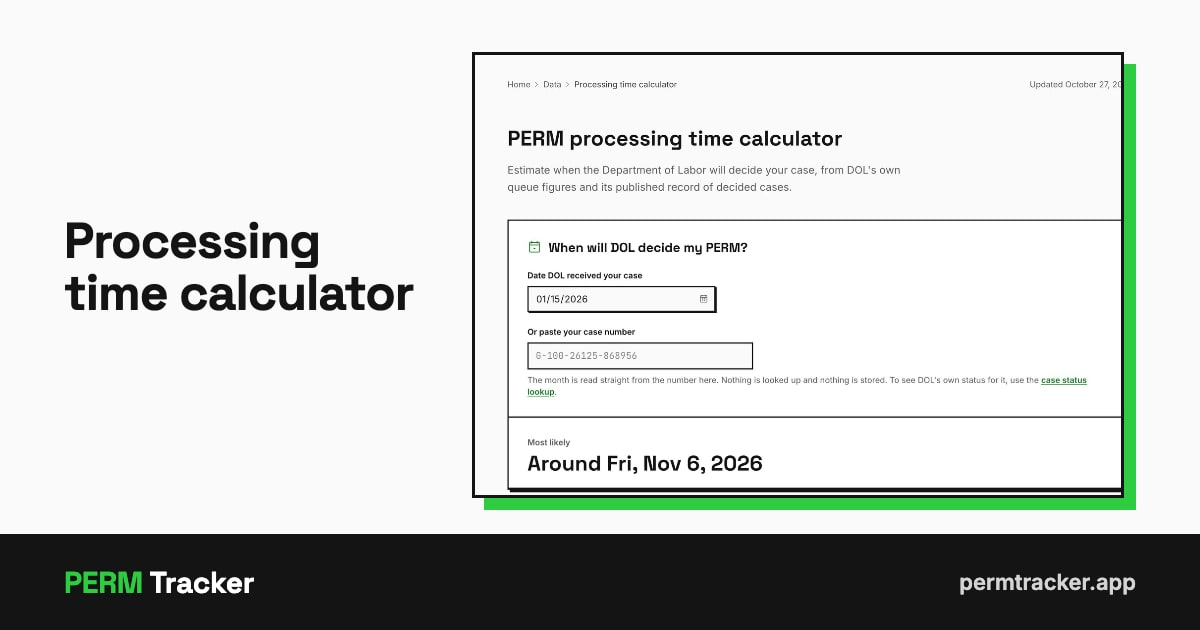
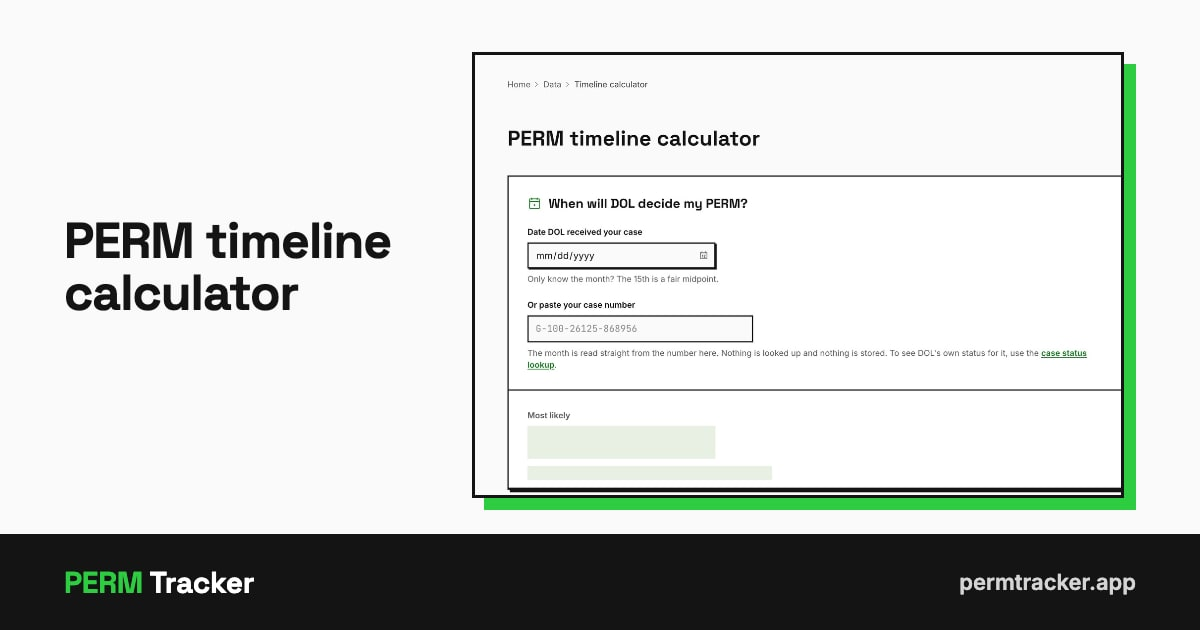
feat(seo): the timeline calculator is called the timeline calculator
Claude-Session: https://claude.ai/code/session_01XYgdcpR3a27fwYMdTXZtsH

diff --git a/v2/src/app/(site)/(public)/calculators/page.tsx b/v2/src/app/(site)/(public)/calculators/page.tsx
@@ -147,7 +147,7 @@ export default function CalculatorsPage() {
                 { s: "Wage request filed, no number for it", q: "What is the case number?", href: "/pwd-cases", tool: "Wage request search" },
                 { s: "Wage request filed, nothing since", q: "How many are ahead of mine?", href: "/tools/pwd-calculator", tool: "Prevailing wage queue" },
                 { s: "Determination in hand, planning recruitment", q: "By when must we file?", href: "/tools/perm-deadline-calculator", tool: "Deadline calculator" },
-                { s: "ETA-9089 filed, waiting", q: "When will DOL decide?", href: "/tools/perm-timeline-calculator", tool: "Decision estimator" },
+                { s: "ETA-9089 filed, waiting", q: "When will DOL decide?", href: "/tools/perm-timeline-calculator", tool: "PERM timeline calculator" },
                 { s: "PERM certified, I-140 next or pending", q: "How deep is USCIS's queue?", href: "/tools/i140-calculator", tool: "I-140 queue" },
                 { s: "I-140 approved, waiting to adjust status", q: "How deep is the green card queue at my priority date?", href: "/tools/i485-queue-position", tool: "I-485 queue position" },
                 { s: "I-140 approved, watching the bulletin", q: "Is my date current, and which way is it moving?", href: "/tools/priority-date-calculator", tool: "Priority dates" },

diff --git a/v2/src/lib/pageCards.ts b/v2/src/lib/pageCards.ts
@@ -49,7 +49,7 @@ export const PAGE_CARD_ALT = {
   "perm-deadline-calculator": "PERM deadline calculator. Every recruitment and filing deadline for a PERM, computed from the dates on your case under 20 CFR 656.",
   "perm-employers-browse": "Every PERM sponsor, A to Z. Browse the employers in DOL's disclosure files by name.",
   "perm-employers-under-review": "Employers with PERM cases on hold, at RFI or under appeal, counted and dated from DOL's live record.",
-  "perm-timeline-calculator": "PERM processing time calculator. Where a filing month stands against DOL's queue, with a decision estimate that keeps its own score.",
+  "perm-timeline-calculator": "PERM timeline calculator. The day DOL will likely decide a case, from its filing date and the cases still ahead of it.",
   "perm-wages-browse": "Every PERM occupation, A to Z. Browse the occupations in DOL's disclosure files by title.",
   "priority-date-calculator": "Visa bulletin priority date calculator. Whether your priority date is current, and how the cutoff has moved, from every bulletin held.",
   "priority-date-retention": "Priority date retention and I-485 portability. Which dates survive a new employer or a new petition, under USCIS's own rules.",

diff --git a/v2/src/components/tools/calculatorShots.ts b/v2/src/components/tools/calculatorShots.ts
@@ -31,7 +31,7 @@ export const CALCULATOR_SHOTS: Record<CalculatorShot, { shots: WindowShots; alt:
       light: { src: "/images/calculators/decision-light.webp", width: 1800, height: 1725 },
       dark: { src: "/images/calculators/decision-dark.webp", width: 1800, height: 1725 },
     },
-    alt: "The PERM processing time calculator for a case DOL received on January 15, 2026: most likely decided around Monday, November 2, 2026, in a window from October 29 to November 11, with DOL deciding 644 cases a working day and its queue at January 2026.",
+    alt: "The PERM timeline calculator for a case DOL received on January 15, 2026: most likely decided around Monday, November 2, 2026, in a window from October 29 to November 11, with DOL deciding 644 cases a working day and its queue at January 2026.",
     captured: "2026-10-28",
   },
   "i140": {

diff --git a/v2/src/lib/__tests__/breadcrumbs.test.ts b/v2/src/lib/__tests__/breadcrumbs.test.ts
@@ -20,7 +20,7 @@ describe("breadcrumbTrail", () => {
     ["/perm-rfi-audit/rfi-issued", ["Home", "Data", "RFI and audits", "RFI issued"]],
     ["/perm-processing-times", ["Home", "Data", "PERM processing times"]],
     ["/uscis-processing-times", ["Home", "Data", "USCIS processing times"]],
-    ["/tools/perm-timeline-calculator", ["Home", "Data", "Processing time calculator"]],
+    ["/tools/perm-timeline-calculator", ["Home", "Data", "Timeline calculator"]],
     ["/tools/rfi-deadline", ["Home", "Data", "RFI deadline"]],
     // A calculator nothing files under a step still has the calculators index above it.
     ["/tools/not-a-real-calculator", ["Home", "Data", "Calculators"]],

diff --git a/v2/src/lib/siteMap.ts b/v2/src/lib/siteMap.ts
@@ -158,7 +158,7 @@ export const SECTIONS: DataNavSection[] = [
 
   s("cases", "PERM", "PERM cases", "/perm-cases"),
   s("processing-times", "PERM", "PERM processing times", "/perm-processing-times"),
-  t("timeline-calculator", "PERM", "Processing time calculator", "/tools/perm-timeline-calculator", "The likely decision day and its range."),
+  t("timeline-calculator", "PERM", "Timeline calculator", "/tools/perm-timeline-calculator", "The likely decision day and its range."),
   s("queue", "PERM", "Queue backlog", "/perm-queue"),
   s("activity", "PERM", "Daily decisions", "/perm-decision-activity"),
   s("risk", "PERM", "Denial rates", "/perm-denial-risk"),

diff --git a/v2/src/app/(site)/(public)/tools/perm-timeline-calculator/page.tsx b/v2/src/app/(site)/(public)/tools/perm-timeline-calculator/page.tsx
@@ -128,7 +128,7 @@ export default async function PermTimelineCalculatorPage() {
 
       <header>
         <h1 className="font-heading text-4xl font-bold leading-tight sm:text-5xl">
-          PERM processing time calculator
+          PERM timeline calculator
         </h1>{" "}
         <p className="mt-4 max-w-2xl text-lg leading-relaxed text-muted-foreground">
           {queueLine(dolNow(times))} Enter your filing date below for an estimate of your own case.
